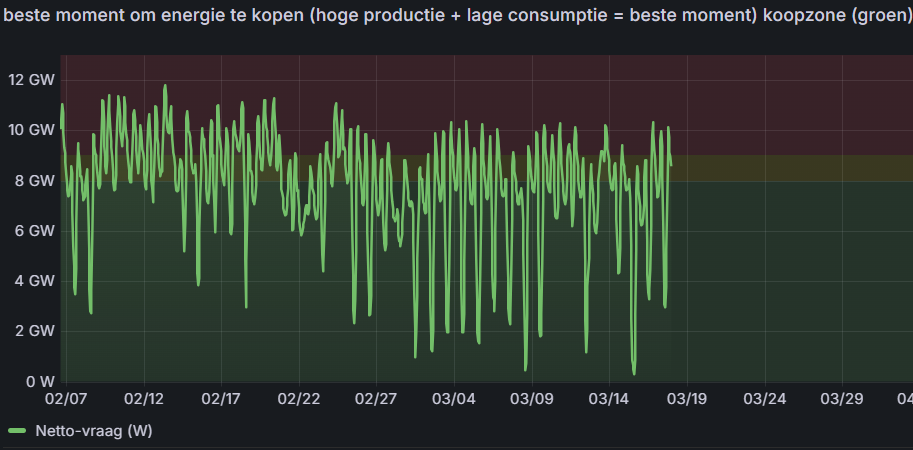
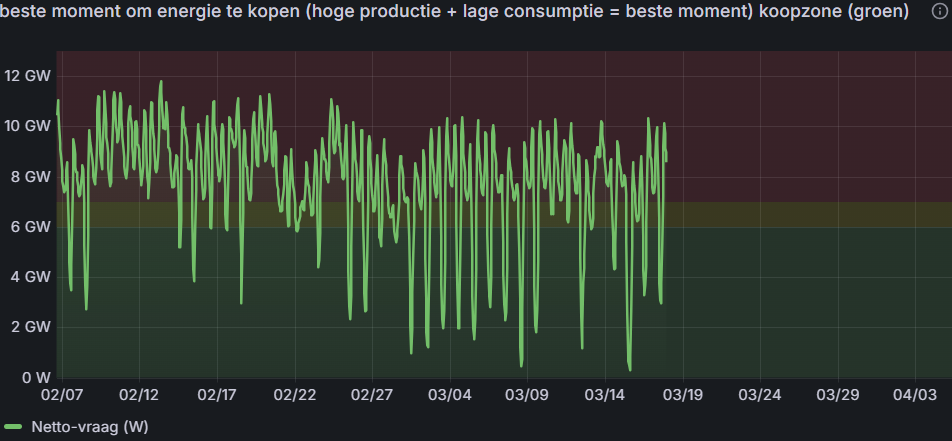
opdracht 11 aankopen of niet in database gezet en voorbeelduitvoer

Changed region(s): [[0.0, 0.1179, 1.0, 0.9138], [0.0, 0.0, 1.0, 0.059], [0.0, 0.9433, 0.184, 1.0]]

diff --git a/advies_kopen_dagelijks.py b/advies_kopen_dagelijks.py
@@ -1,0 +1,68 @@
+import os
+import sys
+import pandas as pd
+from sqlalchemy import text
+
+# Zorg dat we de database connectie kunnen importeren
+project_root = os.path.dirname(os.path.abspath(__file__))
+if project_root not in sys.path:
+    sys.path.insert(0, project_root)
+
+from db import get_engine
+
+def bereken_dagelijks_koop_advies():
+    """
+    Berekent per dag of het een gunstig moment is om energie aan te kopen (1 = Ja, 0 = Nee)
+    gebaseerd op de verhouding tussen de totale hernieuwbare productie en consumptie.
+    """
+    print("Verbinden met de database...")
+    engine = get_engine()
+    
+    query = """
+    WITH dagelijkse_stats AS (
+        SELECT 
+            DATE(c.tijd AT TIME ZONE 'UTC') as dag,
+            AVG(c.elia_total_load_mw) as avg_consumptie_mw,
+            AVG(p.elia_zon_mw + p.elia_wind_mw + COALESCE(p.vlaanderen_zon_mw, 0) + COALESCE(p.vlaanderen_wind_mw, 0)) as avg_productie_mw
+        FROM consumptie c
+        JOIN productie p ON DATE_TRUNC('hour', c.tijd AT TIME ZONE 'UTC') = DATE_TRUNC('hour', p.tijd AT TIME ZONE 'UTC')
+        GROUP BY 1
+    )
+    SELECT 
+        dag as "Datum",
+        ROUND(avg_consumptie_mw::numeric, 0) as "Gem. Consumptie (MW)",
+        ROUND(avg_productie_mw::numeric, 0) as "Gem. Productie (MW)",
+        ROUND((avg_productie_mw / NULLIF(avg_consumptie_mw, 0))::numeric, 3) as "Ratio (Prod/Cons)",
+        CASE 
+            -- Threshold bepalen voor een 'goede' inkoopdag. 
+            -- We stellen in dat wanneer productie minimaal 30% (0.30) van de consumptie
+            -- dekt op daggemiddelde, dit uitzonderlijk hoog is en een ideaal koopmoment is (1 = Kopen).
+            WHEN (avg_productie_mw / NULLIF(avg_consumptie_mw, 0)) >= 0.30 THEN 1 
+            ELSE 0 
+        END as "Kopen? (0/1)"
+    FROM dagelijkse_stats
+    ORDER BY "Datum" DESC
+    LIMIT 30; -- Toon de laatste 30 beschikbare dagen
+    """
+    
+    print("Dagelijks aankoopadvies ophalen...")
+    with engine.connect() as conn:
+        df = pd.read_sql(text(query), conn)
+        
+    print("\n--- Dagelijks Koop-advies (Laatste 30 Dagen) ---")
+    print(df.to_string(index=False))
+    
+    # 1. Opslaan in de database
+    print("\nData opslaan in PostgreSQL tabel 'dagelijks_koop_advies'...")
+    df.to_sql('dagelijks_koop_advies', con=engine, if_exists='replace', index=False)
+    print("Succesvol opgeslagen in de database!")
+
+    # 2. Opslaan als CSV
+    output_dir = os.path.join(project_root, "data", "exports")
+    os.makedirs(output_dir, exist_ok=True)
+    export_path = os.path.join(output_dir, "dagelijks_koop_advies.csv")
+    df.to_csv(export_path, index=False)
+    print(f"Advies succesvol geëxporteerd naar: {export_path}")
+
+if __name__ == "__main__":
+    bereken_dagelijks_koop_advies()

diff --git a/README.md b/README.md
@@ -102,7 +102,7 @@ De daadwerkelijke datasetgrootte (aantal rijen) hangt af van het geselecteerde t
 
    Het dashboard **"Energie Dashboard"** wordt automatisch geladen via provisioning (geen handmatige configuratie nodig). De PostgreSQL datasource is al geconfigureerd.
 
-   Het dashboard bevat 5 panelen:
+   Het dashboard bevat 5 panelen (na opdracht 11 zijn dit er nu meer):
 
    | Paneel | Tabel | Eenheid |
    |--------|-------|---------|
@@ -147,6 +147,7 @@ Voor deze week heb ik in Grafana een uitgebreide analyse toegevoegd om het beste
 
 - **Koop-score (%)**: Een berekende score waarbij uren met een hoog aanbod (productie) en een relatief lage vraag (consumptie) de hoogste percentages behalen.
 - **Beste bestelmomenten**: Uit de analyse blijkt dat de uren rond de middag (door piek in zonne-productie) en in het weekend (door lager verbruik) de meest gunstige momenten zijn om energie in te kopen.
+- **Dagelijks Aankoopadvies Script**: Er is een extra script (`advies_kopen_dagelijks.py`) toegevoegd dat per dag een aankoopadvies genereert (`1 = Kopen`, `0 = Wachten`). Hierbij is een grens van **30%** (de daggemiddelde productie moet minimaal 30% van de daggemiddelde consumptie dekken) om alleen de beste dagen eruit te pikken. De resultaten hiervan worden geëxporteerd naar CSV en opgeslagen in een tabel (`dagelijks_koop_advies`). Ook in het Grafana dashboard is deze zichtbaar.
 
 ## Voorbeeld uivoer
 ### airflow pipeline
@@ -161,5 +162,7 @@ Voor deze week heb ik in Grafana een uitgebreide analyse toegevoegd om het beste
 ![beste moment per uur](koop-score-24u.png)
 ### beste koopdagen (laagste netto-vraag)
 ![beste inkoop dagen](beste-dagen-kopen.png)
+### dagelijks aankoopadvies script (0/1 indicator)
+![dagelijks aankoopadvies](koop_dagen_0_1.png)
 ### mcp server test met claude code
 ![mcp server](mcp.png)
